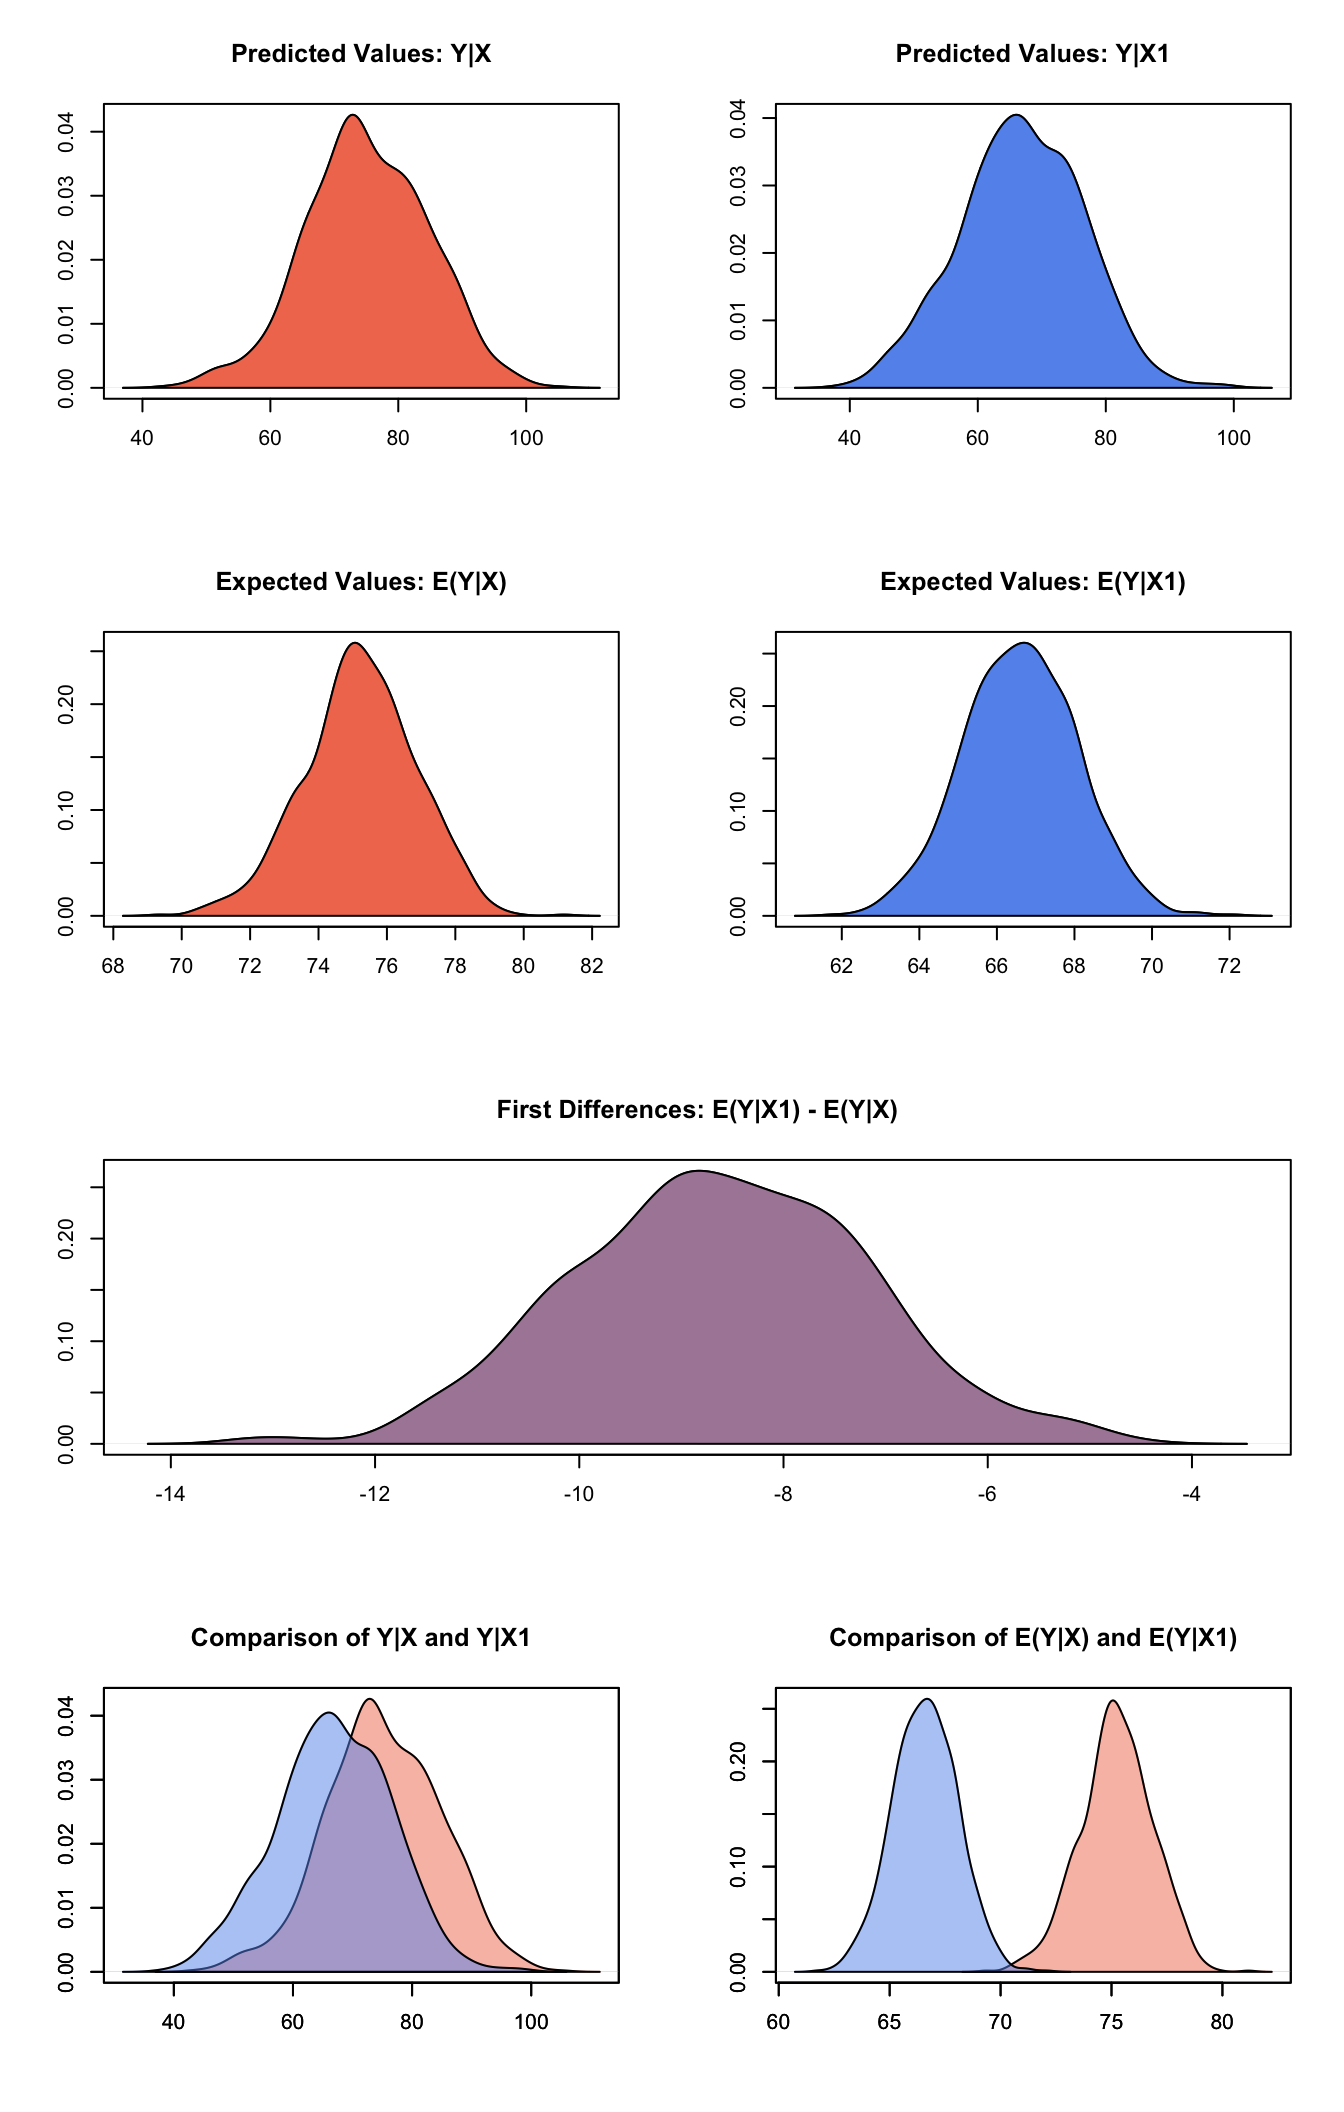
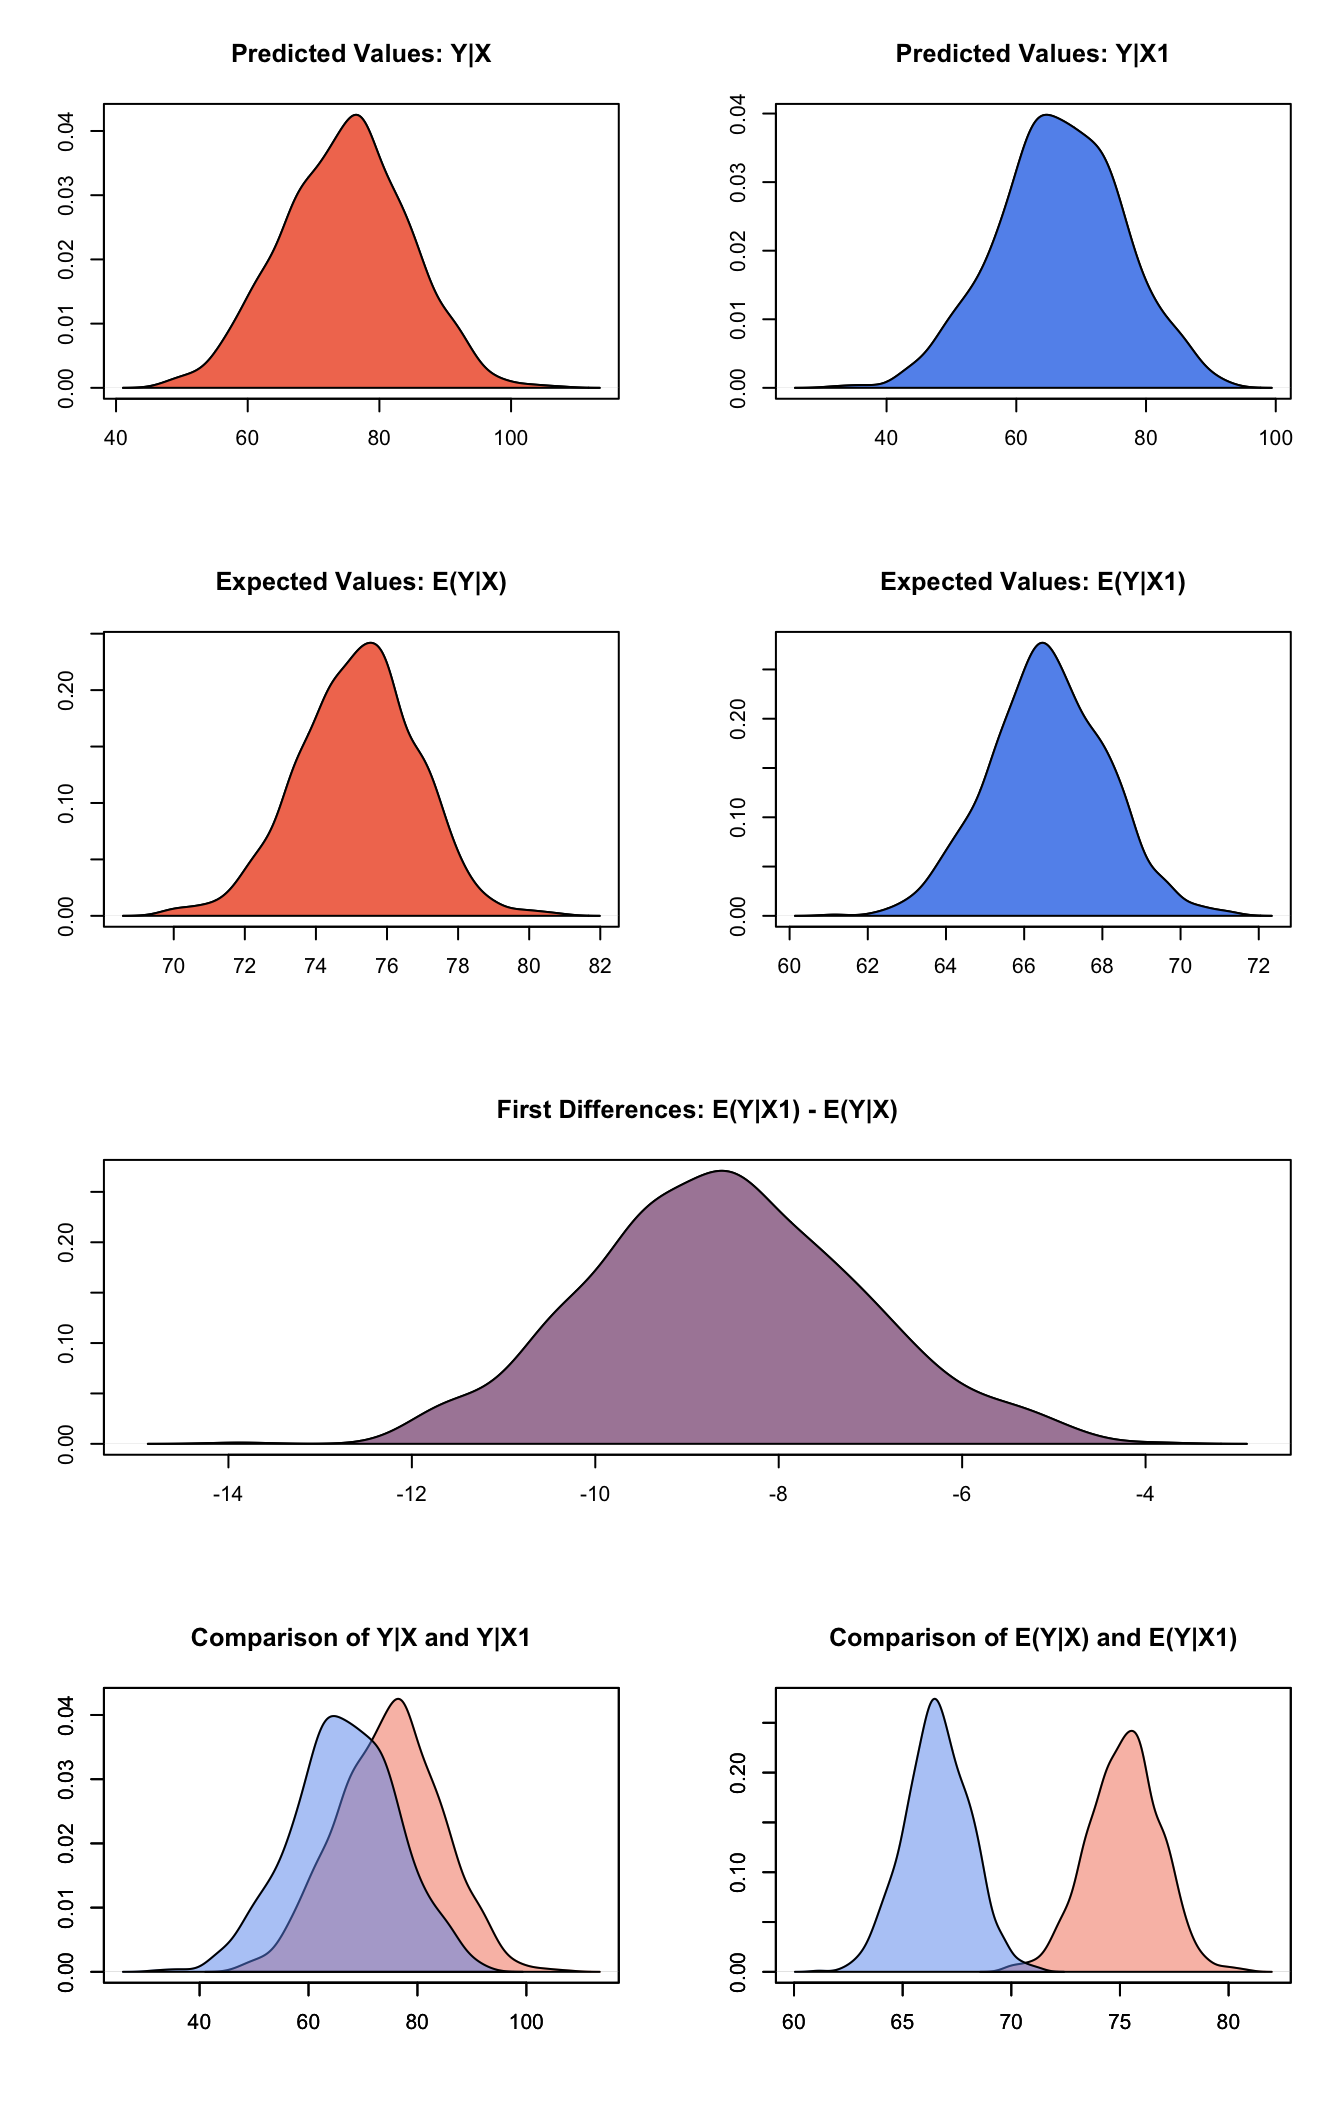
quickstart error corrected;

diff --git a/docs/articles/quickstart.html b/docs/articles/quickstart.html
@@ -123,7 +123,7 @@
     <div class="page-header toc-ignore">
       <h1>Zelig Quickstart Guide</h1>
             
-            <h4 class="date">2017-05-18</h4>
+            <h4 class="date">2017-05-22</h4>
           </div>
 
     
@@ -188,7 +188,7 @@ z5_<span class="dv">1</span> &lt;-<span class="st"> </span><span class="kw"><a h
 ## F-statistic: 35.45 on 1 and 45 DF,  p-value: 3.659e-07
 ## 
 ## Next step: Use 'setx' method</code></pre>
-<p>The NA coefficient on education suggests a negative relationship between the education of a province and its fertility rate. More precisely, for every one percent increase in draftees educated beyond primary school, the fertility rate of the province decreases NA units. To help us better interpret this finding, we may want other quantities of interest, such as expected values or first differences. Zelig makes this simple by automating the translation of model estimates into interpretable quantities of interest using Monte Carlo simulation methods (see King, Tomz, and Wittenberg (2000) for more information). For example, let’s say we want to examine the effect of increasing the percent of draftees educated from 5 to 15. To do so, we set our predictor value using the <code><a href="../reference/setx.html">setx()</a></code> and <code><a href="../reference/setx1.html">setx1()</a></code> functions:</p>
+<p>The -0.86 coefficient on education suggests a negative relationship between the education of a province and its fertility rate. More precisely, for every one percent increase in draftees educated beyond primary school, the fertility rate of the province decreases 0.86 units. To help us better interpret this finding, we may want other quantities of interest, such as expected values or first differences. Zelig makes this simple by automating the translation of model estimates into interpretable quantities of interest using Monte Carlo simulation methods (see King, Tomz, and Wittenberg (2000) for more information). For example, let’s say we want to examine the effect of increasing the percent of draftees educated from 5 to 15. To do so, we set our predictor value using the <code><a href="../reference/setx.html">setx()</a></code> and <code><a href="../reference/setx1.html">setx1()</a></code> functions:</p>
 <div class="sourceCode"><pre class="sourceCode r"><code class="sourceCode r"><span class="co"># set education to 5 and 15</span>
 z5_<span class="dv">1</span> &lt;-<span class="st"> </span><span class="kw"><a href="../reference/setx.html">setx</a></span>(z5_<span class="dv">1</span>, <span class="dt">Education =</span> <span class="dv">5</span>)
 z5_<span class="dv">1</span> &lt;-<span class="st"> </span><span class="kw"><a href="../reference/setx1.html">setx1</a></span>(z5_<span class="dv">1</span>, <span class="dt">Education =</span> <span class="dv">15</span>)
@@ -213,23 +213,23 @@ z5_<span class="dv">1</span> &lt;-<span class="st"> </span><span class="kw"><a h
 ##  sim x :
 ##  -----
 ## ev
-##       mean      sd      50%     2.5%    97.5%
-## 1 75.22693 1.62936 75.21347 71.92193 78.27923
+##       mean       sd      50%     2.5%    97.5%
+## 1 75.18665 1.672973 75.26884 71.86448 78.31342
 ## pv
-##          mean       sd      50%    2.5%    97.5%
-## [1,] 75.16337 9.555522 74.59566 55.6935 92.85408
+##          mean       sd      50%     2.5%    97.5%
+## [1,] 74.76621 9.514672 75.16657 56.54817 92.78039
 ## 
 ##  sim x1 :
 ##  -----
 ## ev
 ##       mean       sd      50%     2.5%    97.5%
-## 1 66.60575 1.461868 66.60466 63.75123 69.46946
+## 1 66.59754 1.498268 66.57736 63.72626 69.55195
 ## pv
-##         mean       sd      50%     2.5%   97.5%
-## [1,] 66.8313 9.596639 66.86412 47.09064 84.2792
+##          mean       sd      50%    2.5%    97.5%
+## [1,] 66.67865 9.701856 66.78055 47.5331 85.47794
 ## fd
 ##        mean       sd       50%      2.5%     97.5%
-## 1 -8.621182 1.443253 -8.616732 -11.41701 -5.740284</code></pre>
+## 1 -8.589117 1.483259 -8.628396 -11.46547 -5.523114</code></pre>
 <p>At this point, we’ve estimated a model, set the predictor value, and estimated easily interpretable quantities of interest. The <code>summary()</code> method shows us our quantities of interest, namely, our expected and predicted values at each level of education, as well as our first differences–the difference in expected values at the set levels of education.</p>
 </div>
 <div id="visualizations" class="section level1">
